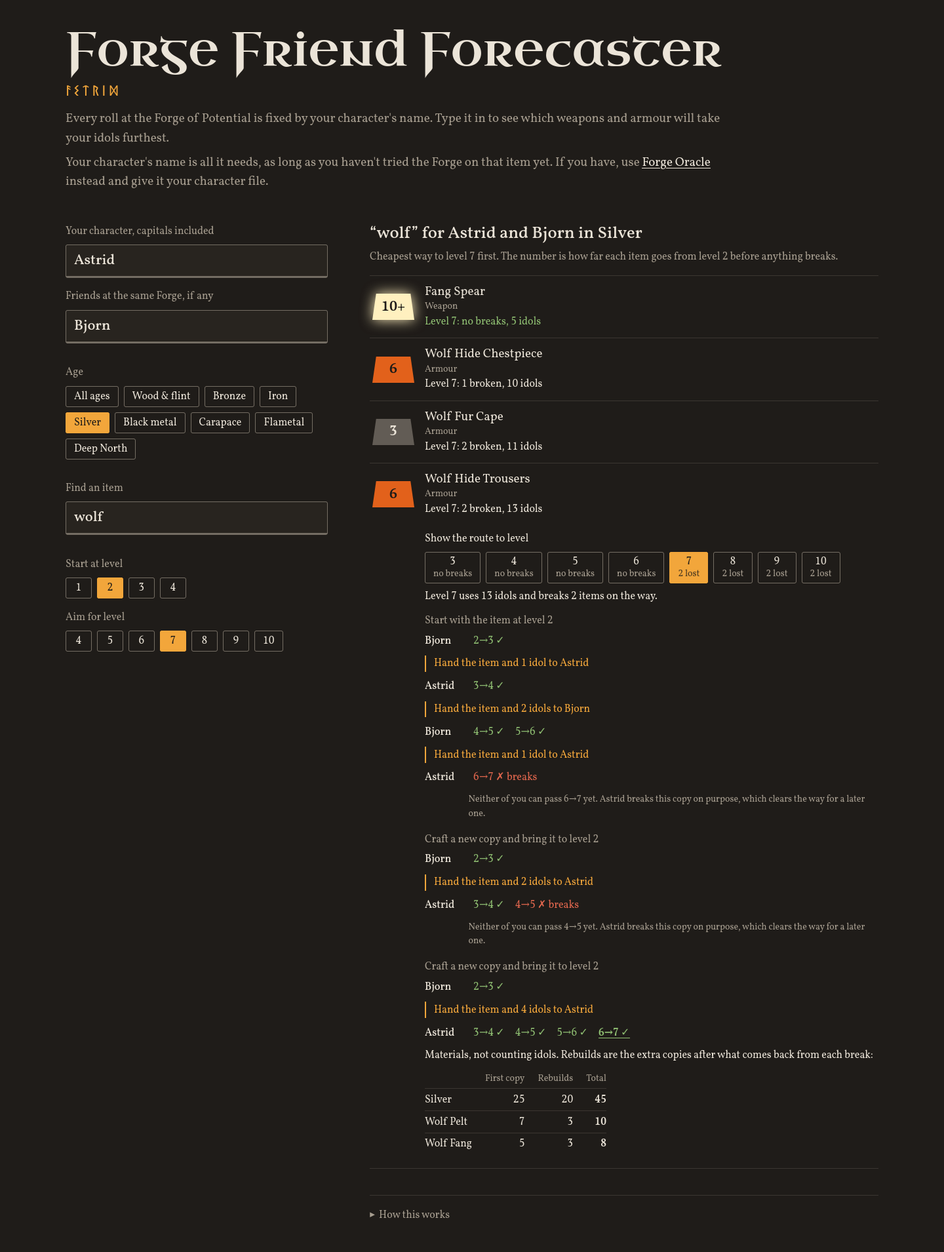
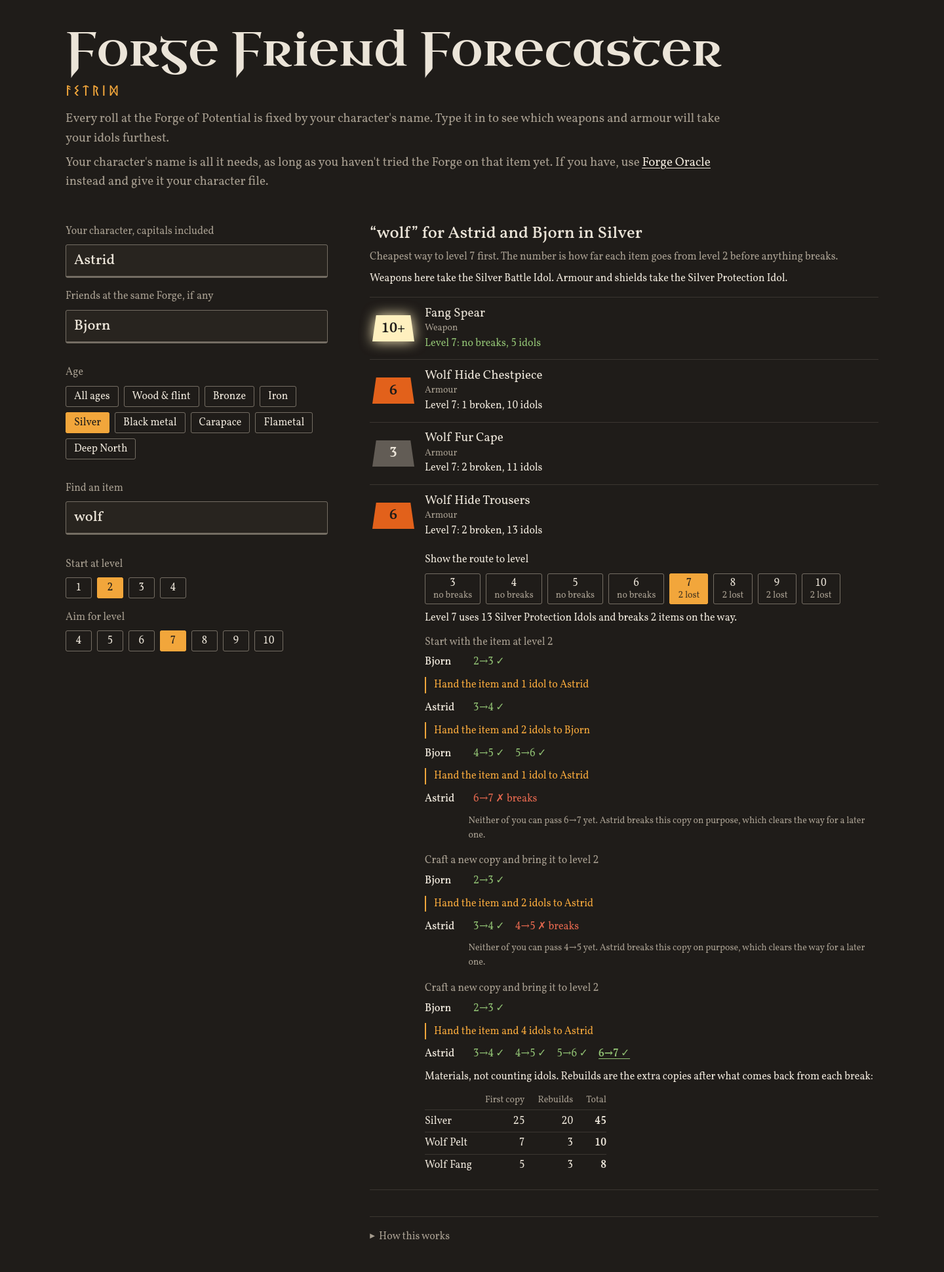
Name the idols each age takes, and restore the game's idol grouping
Ages group items by the idol their Forge recipe asks for, not by the age of
their materials, so the fifteen items moved in 65641b7 go back where the
game data puts them. Headdress of the Bear does take the Black Marble
Protection Idol.

When an age is picked, a line under the heading names its Battle and
Protection Idols, and calls out Nord Knucklechains, the one weapon that
takes a Protection Idol. Each route names the idol it uses, and How this
works explains the grouping.

diff --git a/index.html b/index.html
@@ -82,6 +82,7 @@ button:focus-visible,summary:focus-visible{outline:2px solid var(--amber);outlin
 
 .results h2{font:500 26px/1.2 var(--body);margin:0}
 .results>p{color:var(--slag);font-size:16px;margin:8px 0 16px}
+.results>p.idols{color:var(--ash);margin-top:-8px}
 
 /* One row per item. The ingot is the only coloured thing in the row */
 .item{border-top:1px solid var(--iron)}
@@ -199,6 +200,7 @@ details.how p{margin:12px 0;font-size:16px;max-width:60ch}
   <section class="results" id="out" hidden>
     <h2 id="heading"></h2>
     <p id="intro"></p>
+    <p class="idols" id="idols"></p>
     <p class="sr" id="status" role="status"></p>
     <div id="list"></div>
   </section>
@@ -207,6 +209,7 @@ details.how p{margin:12px 0;font-size:16px;max-width:60ch}
     <summary>How this works</summary>
     <p>Every Forge of Potential attempt is decided in advance. Each item and level step has its own roll, and the first roll comes from your character name. An attempt, whether it works or not, moves that step on to its next roll. Reloading doesn't change anything.</p>
     <p>A roll of 0.65 or less succeeds. A failure destroys the item and gives back 35% of its materials. These values come from the game data and are the same for every idol.</p>
+    <p>Each age has two idols: a Battle Idol for weapons and a Protection Idol for armour and shields. Items are grouped by the idol their Forge recipe asks for, which doesn't always match the age of their materials. The Nord Atgeir, for one, takes the Bronze Battle Idol.</p>
     <p>On a first run almost nothing passes level 7. The game's random numbers for neighbouring levels are related, so long runs of successes are very rare. Higher levels always cost some broken items.</p>
     <p>With friends, each character has their own rolls, and only the character pressing the button counts. Who crafted the item doesn't matter. The route names who should do each step. Playing together on a server hasn't been tested yet, so check the first prediction on a cheap upgrade.</p>
     <p>The lists assume this character hasn't used idols on these items yet, and that you bring each new copy of an item to the start level yourself. If an item breaks, craft a new one, bring it to that level again and follow the next run. Rolls belong to the item type, not the single item, so a new copy carries on where the old one stopped.</p>
@@ -226,11 +229,21 @@ details.how p{margin:12px 0;font-size:16px;max-width:60ch}
     return {roll:(r1&0x7FFFFF)/8388607,next:r2%99999999};
   }
   // Idol tier from the game's recipes. Each entry is [name, internal name, W(eapon)/S(hield)/A(rmour)]
-  var AGES=[[["Club","Club","W"],["Crude Bow","Bow","W"],["Flint Axe","AxeFlint","W"],["Flint Knife","KnifeFlint","W"],["Flint Spear","SpearFlint","W"],["Stagbreaker","SledgeStagbreaker","W"],["Stone Axe","AxeStone","W"],["Wood Shield","ShieldWood","S"],["Wood Tower Shield","ShieldWoodTower","S"],["Deer Hide Cape","CapeDeerHide","A"],["Leather Helmet","HelmetLeather","A"],["Leather Trousers","ArmorLeatherLegs","A"],["Leather Tunic","ArmorLeatherChest","A"],["Rag Trousers","ArmorRagsLegs","A"],["Rag Tunic","ArmorRagsChest","A"]],[["Bronze Atgeir","AtgeirBronze","W"],["Bronze Axe","AxeBronze","W"],["Bronze Mace","MaceBronze","W"],["Bronze Spear","SpearBronze","W"],["Bronze Sword","SwordBronze","W"],["Copper Knife","KnifeCopper","W"],["Finewood Bow","BowFineWood","W"],["Paws of the Bear","FistBjornClaw","W"],["Bone Tower Shield","ShieldBoneTower","S"],["Bronze Buckler","ShieldBronzeBuckler","S"],["Bronze Helmet","HelmetBronze","A"],["Bronze Plate Leggings","ArmorBronzeLegs","A"],["Bronze Plate Tunic","ArmorBronzeChest","A"],["Cape of Oden","CapeOdin","A"],["Headdress of the Bear","HelmetBerserkerHood","A"],["Hood of Oden","HelmetOdin","A"],["Loincloth of the Bear","ArmorBerserkerLegs","A"],["Patterns of the Bear","ArmorBerserkerChest","A"],["Troll Hide Cape","CapeTrollHide","A"],["Troll Leather Hood","HelmetTrollLeather","A"],["Troll Leather Trousers","ArmorTrollLeatherLegs","A"],["Troll Leather Tunic","ArmorTrollLeatherChest","A"]],[["Ancient Bark Spear","SpearElderbark","W"],["Battleaxe","Battleaxe","W"],["Early Axes","AxeEarly","W"],["Huntsman Bow","BowHuntsman","W"],["Iron Atgeir","AtgeirIron","W"],["Iron Axe","AxeIron","W"],["Iron Mace","MaceIron","W"],["Iron Sledge","SledgeIron","W"],["Iron Sword","SwordIron","W"],["Banded Shield","ShieldBanded","S"],["Iron Buckler","ShieldIronBuckler","S"],["Iron Shield","ShieldIronSquare","S"],["Iron Tower Shield","ShieldIronTower","S"],["Shield of Roots","ShieldRoots","S"],["Iron Greaves","ArmorIronLegs","A"],["Iron Helmet","HelmetIron","A"],["Iron Scale Mail","ArmorIronChest","A"],["Root Harnesk","ArmorRootChest","A"],["Root Leggings","ArmorRootLegs","A"],["Root Mask","HelmetRoot","A"]],[["Abyssal Razor","KnifeChitin","W"],["Crystal Battleaxe","BattleaxeCrystal","W"],["Draugr Fang","BowDraugrFang","W"],["Fang Spear","SpearWolfFang","W"],["Flesh Rippers","FistFenrirClaw","W"],["Frostner","MaceSilver","W"],["Silver Knife","KnifeSilver","W"],["Silver Sword","SwordSilver","W"],["Serpent Scale Shield","ShieldSerpentscale","S"],["Silver Shield","ShieldSilver","S"],["Drake Helmet","HelmetDrake","A"],["Fenris Coat","ArmorFenringChest","A"],["Fenris Hood","HelmetFenring","A"],["Fenris Leggings","ArmorFenringLegs","A"],["Wolf Fur Cape","CapeWolf","A"],["Wolf Hide Chestpiece","ArmorWolfChest","A"],["Wolf Hide Trousers","ArmorWolfLegs","A"]],[["Black Metal Atgeir","AtgeirBlackmetal","W"],["Black Metal Axe","AxeBlackMetal","W"],["Black Metal Battleaxe","BattleaxeBlackmetal","W"],["Black Metal Knife","KnifeBlackMetal","W"],["Black Metal Sword","SwordBlackmetal","W"],["Porcupine","MaceNeedle","W"],["Skoll and Hati","KnifeSkollAndHati","W"],["Vilebone Maulclaws","FistBjornUndeadClaw","W"],["Black Metal Shield","ShieldBlackmetal","S"],["Black Metal Tower Shield","ShieldBlackmetalTower","S"],["Linen Cape","CapeLinen","A"],["Lox Cape","CapeLox","A"],["Lox Fur Hood","HelmetLox","A"],["Lox Fur Jacket","ArmorLoxChest","A"],["Lox Fur Trousers","ArmorLoxLegs","A"],["Padded Cuirass","ArmorPaddedCuirass","A"],["Padded Greaves","ArmorPaddedGreaves","A"],["Padded Helmet","HelmetPadded","A"],["Vilebone Cage","ArmorBerserkerUndeadChest","A"],["Vilebone Drapes","ArmorBerserkerUndeadLegs","A"],["Vilebone Visage","HelmetBerserkerUndead","A"]],[["Arbalest","CrossbowArbalest","W"],["Carapace Spear","SpearCarapace","W"],["Dead Raiser","StaffSkeleton","W"],["Demolisher","SledgeDemolisher","W"],["Himminafl","AtgeirHimminAfl","W"],["Jotun Bane","AxeJotunBane","W"],["Krom","THSwordKrom","W"],["Mistwalker","SwordMistwalker","W"],["Skull Splittur","BattleaxeSkullSplittur","W"],["Spinesnap","BowSpineSnap","W"],["Staff of Embers","StaffFireball","W"],["Staff of Frost","StaffIceShards","W"],["Staff of Protection","StaffShield","W"],["Carapace Buckler","ShieldCarapaceBuckler","S"],["Carapace Shield","ShieldCarapace","S"],["Carapace Breastplate","ArmorCarapaceChest","A"],["Carapace Greaves","ArmorCarapaceLegs","A"],["Carapace Helmet","HelmetCarapace","A"],["Eitr-weave Hood","HelmetMage","A"],["Eitr-weave Robe","ArmorMageChest","A"],["Eitr-weave Trousers","ArmorMageLegs","A"],["Feather Cape","CapeFeather","A"]],[["Ash Fang","BowAshlands","W"],["Berserkir Axes","AxeBerzerkr","W"],["Bleeding Berserkir Axes","AxeBerzerkrBlood","W"],["Blood Fang","BowAshlandsBlood","W"],["Bloodgeon","MaceEldnerBlood","W"],["Brutal Slayer","THSwordSlayerBlood","W"],["Dundr","StaffLightning","W"],["Dyrnwyn","SwordDyrnwyn","W"],["Flametal Mace","MaceEldner","W"],["Klossen","MaceEldnerNature","W"],["Nidhögg","SwordNiedhogg","W"],["Nidhögg the Bleeding","SwordNiedhoggBlood","W"],["Nidhögg the Primal","SwordNiedhoggNature","W"],["Nidhögg the Thundering","SwordNiedhoggLightning","W"],["Primal Berserkir Axes","AxeBerzerkrNature","W"],["Primal Slayer","THSwordSlayerNature","W"],["Ripper","CrossbowRipper","W"],["Root Fang","BowAshlandsRoot","W"],["Root Ripper","CrossbowRipperNature","W"],["Scourging Slayer","THSwordSlayerLightning","W"],["Slayer","THSwordSlayer","W"],["Splitnir","SpearSplitner","W"],["Splitnir the Bleeding","SpearSplitner_Blood","W"],["Splitnir the Primal","SpearSplitner_Nature","W"],["Splitnir the Storming","SpearSplitner_Lightning","W"],["Staff of Fracturing","StaffClusterbomb","W"],["Staff of the Wild","StaffGreenRoots","W"],["Storm Fang","BowAshlandsStorm","W"],["Storm Ripper","CrossbowRipperLightning","W"],["Storm Star","MaceEldnerLightning","W"],["Thundering Berserkir Axes","AxeBerzerkrLightning","W"],["Trollstav","StaffRedTroll","W"],["Wound Ripper","CrossbowRipperBlood","W"],["Flametal Shield","ShieldFlametal","S"],["Flametal Tower Shield","ShieldFlametalTower","S"],["Ashen Cape","CapeAsh","A"],["Asksvin Cloak","CapeAsksvin","A"],["Breastplate of Ask","ArmorAshlandsMediumChest","A"],["Flametal Breastplate","ArmorFlametalChest","A"],["Flametal Greaves","ArmorFlametalLegs","A"],["Flametal Helmet","HelmetFlametal","A"],["Hood of Ask","HelmetAshlandsMediumHood","A"],["Hood of Embla","HelmetMage_Ashlands","A"],["Robes of Embla","ArmorMageChest_Ashlands","A"],["Trousers of Ask","ArmorAshlandsMediumlegs","A"],["Trousers of Embla","ArmorMageLegs_Ashlands","A"]],[["Echo Spike","StaffOrbofAhri","W"],["Frostfire Atgeir","AtgeirGold_FrostFire","W"],["Frostfire Axe","AxeGold_FrostFire","W"],["Frostfire Bow","BowGold_FrostFire","W"],["Frostfire Crossbow","CrossbowGold_FrostFire","W"],["Frostfire Dagger","KnifeGold_FrostFire","W"],["Frostfire Greataxe","BattleaxeGold_FrostFire","W"],["Frostfire Greatsword","THSwordGold_FrostFire","W"],["Frostfire Knucklechains","FistGold_FrostFire","W"],["Frostfire Mace","MaceGold_FrostFire","W"],["Frostfire Sledge","SledgeGold_FrostFire","W"],["Frostfire Spear","SpearGold_FrostFire","W"],["Frostfire Sword","SwordGold_FrostFire","W"],["Lightning Strike","StaffThunderBlood","W"],["Nord Atgeir","AtgeirGold","W"],["Nord Axe","AxeGold","W"],["Nord Bow","BowGold","W"],["Nord Crossbow","CrossbowGold","W"],["Nord Dagger","KnifeGold","W"],["Nord Greataxe","BattleaxeGold","W"],["Nord Greatsword","THSwordGold","W"],["Nord Knucklechains","FistGold","W"],["Nord Mace","MaceGold","W"],["Nord Sledge","SledgeGold","W"],["Nord Spear","SpearGold","W"],["Nord Sword","SwordGold","W"],["Northern Vengeance","StaffFrostOrbs","W"],["Spirit Caller","StaffSpiritCaller","W"],["Thunderblood Atgeir","AtgeirGold_BloodLightning","W"],["Thunderblood Axe","AxeGold_BloodLightning","W"],["Thunderblood Bow","BowGold_BloodLightning","W"],["Thunderblood Crossbow","CrossbowGold_BloodLightning","W"],["Thunderblood Dagger","KnifeGold_BloodLightning","W"],["Thunderblood Greataxe","BattleaxeGold_BloodLightning","W"],["Thunderblood Greatsword","THSwordGold_BloodLightning","W"],["Thunderblood Knucklechains","FistGold_BloodLightning","W"],["Thunderblood Mace","MaceGold_BloodLightning","W"],["Thunderblood Sledge","SledgeGold_BloodLightning","W"],["Thunderblood Spear","SpearGold_BloodLightning","W"],["Thunderblood Sword","SwordGold_BloodLightning","W"],["Voidcaller","KnifeVoid","W"],["Nord Buckler","ShieldGoldBuckler","S"],["Nord Greatshield","ShieldGoldTower","S"],["Nord Shield","ShieldGold","S"],["Breastplate of the Protector","ArmorDeepNorthHeavyChest","A"],["Cape of the Caller","CapeDeepNorthMage","A"],["Chestpiece of the Vanguard","ArmorDeepNorthMediumChest","A"],["Headdress of the Caller","HelmetDNMage","A"],["Hood of the Vanguard","HelmetDNMediumHood","A"],["Moose Hide Cape","CapeDeepNorth","A"],["Robes of the Caller","ArmorDeepNorthMageChest","A"],["Trousers of the Caller","ArmorDeepNorthMagelegs","A"],["Trousers of the Protector","ArmorDeepNorthHeavylegs","A"],["Trousers of the Vanguard","ArmorDeepNorthMediumlegs","A"]]];
+  var AGES=[[["Club","Club","W"],["Crude Bow","Bow","W"],["Flint Knife","KnifeFlint","W"],["Flint Spear","SpearFlint","W"],["Stagbreaker","SledgeStagbreaker","W"],["Stone Axe","AxeStone","W"],["Wood Shield","ShieldWood","S"],["Wood Tower Shield","ShieldWoodTower","S"],["Deer Hide Cape","CapeDeerHide","A"],["Leather Helmet","HelmetLeather","A"],["Leather Trousers","ArmorLeatherLegs","A"],["Leather Tunic","ArmorLeatherChest","A"],["Rag Trousers","ArmorRagsLegs","A"],["Rag Tunic","ArmorRagsChest","A"]],[["Bronze Atgeir","AtgeirBronze","W"],["Bronze Mace","MaceBronze","W"],["Bronze Spear","SpearBronze","W"],["Bronze Sword","SwordBronze","W"],["Copper Knife","KnifeCopper","W"],["Finewood Bow","BowFineWood","W"],["Flint Axe","AxeFlint","W"],["Nord Atgeir","AtgeirGold","W"],["Paws of the Bear","FistBjornClaw","W"],["Voidcaller","KnifeVoid","W"],["Bone Tower Shield","ShieldBoneTower","S"],["Bronze Buckler","ShieldBronzeBuckler","S"],["Bronze Helmet","HelmetBronze","A"],["Bronze Plate Leggings","ArmorBronzeLegs","A"],["Bronze Plate Tunic","ArmorBronzeChest","A"],["Cape of Oden","CapeOdin","A"],["Hood of Oden","HelmetOdin","A"],["Loincloth of the Bear","ArmorBerserkerLegs","A"],["Patterns of the Bear","ArmorBerserkerChest","A"],["Troll Hide Cape","CapeTrollHide","A"],["Troll Leather Hood","HelmetTrollLeather","A"],["Troll Leather Trousers","ArmorTrollLeatherLegs","A"],["Troll Leather Tunic","ArmorTrollLeatherChest","A"]],[["Ancient Bark Spear","SpearElderbark","W"],["Battleaxe","Battleaxe","W"],["Bronze Axe","AxeBronze","W"],["Draugr Fang","BowDraugrFang","W"],["Early Axes","AxeEarly","W"],["Huntsman Bow","BowHuntsman","W"],["Iron Atgeir","AtgeirIron","W"],["Iron Mace","MaceIron","W"],["Iron Sledge","SledgeIron","W"],["Iron Sword","SwordIron","W"],["Nord Knucklechains","FistGold","W"],["Banded Shield","ShieldBanded","S"],["Iron Buckler","ShieldIronBuckler","S"],["Iron Shield","ShieldIronSquare","S"],["Iron Tower Shield","ShieldIronTower","S"],["Shield of Roots","ShieldRoots","S"],["Iron Greaves","ArmorIronLegs","A"],["Iron Helmet","HelmetIron","A"],["Iron Scale Mail","ArmorIronChest","A"],["Root Harnesk","ArmorRootChest","A"],["Root Leggings","ArmorRootLegs","A"],["Root Mask","HelmetRoot","A"]],[["Abyssal Razor","KnifeChitin","W"],["Crystal Battleaxe","BattleaxeCrystal","W"],["Fang Spear","SpearWolfFang","W"],["Flesh Rippers","FistFenrirClaw","W"],["Frostner","MaceSilver","W"],["Iron Axe","AxeIron","W"],["Silver Knife","KnifeSilver","W"],["Silver Sword","SwordSilver","W"],["Serpent Scale Shield","ShieldSerpentscale","S"],["Silver Shield","ShieldSilver","S"],["Drake Helmet","HelmetDrake","A"],["Fenris Coat","ArmorFenringChest","A"],["Fenris Hood","HelmetFenring","A"],["Fenris Leggings","ArmorFenringLegs","A"],["Wolf Fur Cape","CapeWolf","A"],["Wolf Hide Chestpiece","ArmorWolfChest","A"],["Wolf Hide Trousers","ArmorWolfLegs","A"]],[["Black Metal Atgeir","AtgeirBlackmetal","W"],["Black Metal Axe","AxeBlackMetal","W"],["Black Metal Battleaxe","BattleaxeBlackmetal","W"],["Black Metal Knife","KnifeBlackMetal","W"],["Black Metal Sword","SwordBlackmetal","W"],["Frostfire Axe","AxeGold_FrostFire","W"],["Jotun Bane","AxeJotunBane","W"],["Nord Axe","AxeGold","W"],["Porcupine","MaceNeedle","W"],["Skoll and Hati","KnifeSkollAndHati","W"],["Vilebone Maulclaws","FistBjornUndeadClaw","W"],["Black Metal Shield","ShieldBlackmetal","S"],["Black Metal Tower Shield","ShieldBlackmetalTower","S"],["Linen Cape","CapeLinen","A"],["Lox Cape","CapeLox","A"],["Lox Fur Hood","HelmetLox","A"],["Lox Fur Jacket","ArmorLoxChest","A"],["Lox Fur Trousers","ArmorLoxLegs","A"],["Padded Cuirass","ArmorPaddedCuirass","A"],["Padded Greaves","ArmorPaddedGreaves","A"],["Padded Helmet","HelmetPadded","A"],["Vilebone Cage","ArmorBerserkerUndeadChest","A"],["Vilebone Drapes","ArmorBerserkerUndeadLegs","A"],["Vilebone Visage","HelmetBerserkerUndead","A"]],[["Arbalest","CrossbowArbalest","W"],["Carapace Spear","SpearCarapace","W"],["Dead Raiser","StaffSkeleton","W"],["Demolisher","SledgeDemolisher","W"],["Himminafl","AtgeirHimminAfl","W"],["Krom","THSwordKrom","W"],["Mistwalker","SwordMistwalker","W"],["Skull Splittur","BattleaxeSkullSplittur","W"],["Spinesnap","BowSpineSnap","W"],["Splitnir","SpearSplitner","W"],["Splitnir the Bleeding","SpearSplitner_Blood","W"],["Splitnir the Primal","SpearSplitner_Nature","W"],["Splitnir the Storming","SpearSplitner_Lightning","W"],["Staff of Embers","StaffFireball","W"],["Staff of Frost","StaffIceShards","W"],["Staff of Protection","StaffShield","W"],["Carapace Buckler","ShieldCarapaceBuckler","S"],["Carapace Shield","ShieldCarapace","S"],["Carapace Breastplate","ArmorCarapaceChest","A"],["Carapace Greaves","ArmorCarapaceLegs","A"],["Carapace Helmet","HelmetCarapace","A"],["Eitr-weave Hood","HelmetMage","A"],["Eitr-weave Robe","ArmorMageChest","A"],["Eitr-weave Trousers","ArmorMageLegs","A"],["Feather Cape","CapeFeather","A"],["Headdress of the Bear","HelmetBerserkerHood","A"]],[["Ash Fang","BowAshlands","W"],["Berserkir Axes","AxeBerzerkr","W"],["Bleeding Berserkir Axes","AxeBerzerkrBlood","W"],["Blood Fang","BowAshlandsBlood","W"],["Bloodgeon","MaceEldnerBlood","W"],["Brutal Slayer","THSwordSlayerBlood","W"],["Dundr","StaffLightning","W"],["Dyrnwyn","SwordDyrnwyn","W"],["Flametal Mace","MaceEldner","W"],["Klossen","MaceEldnerNature","W"],["Nidhögg","SwordNiedhogg","W"],["Nidhögg the Bleeding","SwordNiedhoggBlood","W"],["Nidhögg the Primal","SwordNiedhoggNature","W"],["Nidhögg the Thundering","SwordNiedhoggLightning","W"],["Primal Berserkir Axes","AxeBerzerkrNature","W"],["Primal Slayer","THSwordSlayerNature","W"],["Ripper","CrossbowRipper","W"],["Root Fang","BowAshlandsRoot","W"],["Root Ripper","CrossbowRipperNature","W"],["Scourging Slayer","THSwordSlayerLightning","W"],["Slayer","THSwordSlayer","W"],["Staff of Fracturing","StaffClusterbomb","W"],["Staff of the Wild","StaffGreenRoots","W"],["Storm Fang","BowAshlandsStorm","W"],["Storm Ripper","CrossbowRipperLightning","W"],["Storm Star","MaceEldnerLightning","W"],["Thundering Berserkir Axes","AxeBerzerkrLightning","W"],["Trollstav","StaffRedTroll","W"],["Wound Ripper","CrossbowRipperBlood","W"],["Flametal Shield","ShieldFlametal","S"],["Flametal Tower Shield","ShieldFlametalTower","S"],["Ashen Cape","CapeAsh","A"],["Asksvin Cloak","CapeAsksvin","A"],["Breastplate of Ask","ArmorAshlandsMediumChest","A"],["Flametal Breastplate","ArmorFlametalChest","A"],["Flametal Greaves","ArmorFlametalLegs","A"],["Flametal Helmet","HelmetFlametal","A"],["Hood of Ask","HelmetAshlandsMediumHood","A"],["Hood of Embla","HelmetMage_Ashlands","A"],["Robes of Embla","ArmorMageChest_Ashlands","A"],["Trousers of Ask","ArmorAshlandsMediumlegs","A"],["Trousers of Embla","ArmorMageLegs_Ashlands","A"]],[["Echo Spike","StaffOrbofAhri","W"],["Frostfire Atgeir","AtgeirGold_FrostFire","W"],["Frostfire Bow","BowGold_FrostFire","W"],["Frostfire Crossbow","CrossbowGold_FrostFire","W"],["Frostfire Dagger","KnifeGold_FrostFire","W"],["Frostfire Greataxe","BattleaxeGold_FrostFire","W"],["Frostfire Greatsword","THSwordGold_FrostFire","W"],["Frostfire Knucklechains","FistGold_FrostFire","W"],["Frostfire Mace","MaceGold_FrostFire","W"],["Frostfire Sledge","SledgeGold_FrostFire","W"],["Frostfire Spear","SpearGold_FrostFire","W"],["Frostfire Sword","SwordGold_FrostFire","W"],["Lightning Strike","StaffThunderBlood","W"],["Nord Bow","BowGold","W"],["Nord Crossbow","CrossbowGold","W"],["Nord Dagger","KnifeGold","W"],["Nord Greataxe","BattleaxeGold","W"],["Nord Greatsword","THSwordGold","W"],["Nord Mace","MaceGold","W"],["Nord Sledge","SledgeGold","W"],["Nord Spear","SpearGold","W"],["Nord Sword","SwordGold","W"],["Northern Vengeance","StaffFrostOrbs","W"],["Spirit Caller","StaffSpiritCaller","W"],["Thunderblood Atgeir","AtgeirGold_BloodLightning","W"],["Thunderblood Axe","AxeGold_BloodLightning","W"],["Thunderblood Bow","BowGold_BloodLightning","W"],["Thunderblood Crossbow","CrossbowGold_BloodLightning","W"],["Thunderblood Dagger","KnifeGold_BloodLightning","W"],["Thunderblood Greataxe","BattleaxeGold_BloodLightning","W"],["Thunderblood Greatsword","THSwordGold_BloodLightning","W"],["Thunderblood Knucklechains","FistGold_BloodLightning","W"],["Thunderblood Mace","MaceGold_BloodLightning","W"],["Thunderblood Sledge","SledgeGold_BloodLightning","W"],["Thunderblood Spear","SpearGold_BloodLightning","W"],["Thunderblood Sword","SwordGold_BloodLightning","W"],["Nord Buckler","ShieldGoldBuckler","S"],["Nord Greatshield","ShieldGoldTower","S"],["Nord Shield","ShieldGold","S"],["Breastplate of the Protector","ArmorDeepNorthHeavyChest","A"],["Cape of the Caller","CapeDeepNorthMage","A"],["Chestpiece of the Vanguard","ArmorDeepNorthMediumChest","A"],["Headdress of the Caller","HelmetDNMage","A"],["Hood of the Vanguard","HelmetDNMediumHood","A"],["Moose Hide Cape","CapeDeepNorth","A"],["Robes of the Caller","ArmorDeepNorthMageChest","A"],["Trousers of the Caller","ArmorDeepNorthMagelegs","A"],["Trousers of the Protector","ArmorDeepNorthHeavylegs","A"],["Trousers of the Vanguard","ArmorDeepNorthMediumlegs","A"]]];
   // Crafting materials per item from the game's recipes, idols left out: [name, amount to craft, amount per level, returned on a break (1/0)]
   var MATS={"SledgeWood":[["Wood",5,1,1],["Finewood",3,10,1],["Corewood",2,2,1]],"HelmetCarapace":[["Carapace",16,8,1],["Scale Hide",3,1,1],["Mandible",2,0,1],["Refined Eitr",4,2,1]],"MaceBronze":[["Wood",4,0,1],["Bronze",8,4,1],["Leather Scraps",3,0,1]],"SwordWood":[["Wood",5,1,1],["Finewood",3,10,1],["Corewood",2,2,1]],"KnifeGold":[["Bloodgold",20,10,1],["Mould: Nord Dagger",1,0,1],["Timberwood",10,5,1]],"ShieldGold":[["Bloodgold",15,8,1],["Mould: Nord Shield",1,0,1],["Timberwood",10,5,1]],"ShieldIronTower":[["Finewood",15,10,1],["Iron",10,5,1]],"CrossbowArbalest":[["Wood",10,5,1],["Iron",8,4,1],["Root",4,1,1]],"SwordGold":[["Bloodgold",20,10,1],["Mould: Nord Sword",1,0,1],["Timberwood",10,5,1]],"FistGold_FrostFire":[["Nord Knucklechains",1,0,0],["Bloodgold",20,10,1],["Frostfire Essence",1,1,0]],"CapeWolf":[["Wolf Pelt",6,4,1],["Silver",4,2,1],["Wolf Trophy",1,0,1]],"KnifeVoid":[["Ectoplasm",1,0,1],["Ectoplasm",8,10,1],["Bloodgold",2,10,1]],"BattleaxeSkullSplittur":[["Iron",30,15,1],["Yggdrasil Wood",15,5,1],["Refined Eitr",10,0,1]],"CapeLox":[["Lox Pelt",6,2,1],["Silver",2,0,1]],"ArmorLeatherChest":[["Deer Hide",6,6,1],["Bone Fragments",0,5,1]],"BattleaxeBlackmetal":[["Finewood",10,0,1],["Black Metal",30,15,1],["Linen Thread",5,5,1]],"SwordGold_FrostFire":[["Nord Sword",1,0,0],["Bloodgold",20,10,1],["Frostfire Essence",1,1,0]],"SpearSplitner_Blood":[["Splitnir",1,0,0],["Flametal",6,6,1],["Bloodstone",1,1,0]],"THSwordWood":[["Wood",5,1,1],["Finewood",3,10,1],["Corewood",2,2,1]],"ShieldWoodTower":[["Wood",10,5,1],["Leather Scraps",6,3,1]],"SpearSplitner_Nature":[["Splitnir",1,0,0],["Flametal",6,6,1],["Jade",1,1,0]],"BowDraugrFang":[["Ancient Bark",10,5,1],["Silver",20,10,1],["Deer Hide",2,2,1],["Guck",10,2,1]],"AxeBerzerkrNature":[["Berserkir Axes",1,0,0],["Flametal",5,5,1],["Jade",1,1,0]],"Club":[["Wood",6,0,1],["Bone Fragments",0,5,1]],"THSwordKrom":[["Iron",30,15,1],["Bronze",20,10,1],["Scale Hide",5,5,1]],"CrossbowRipperBlood":[["Ripper",1,0,0],["Flametal",8,8,1],["Bloodstone",1,1,0]],"MaceIron":[["Wood",4,0,1],["Iron",20,10,1],["Leather Scraps",3,0,1]],"ArmorDeepNorthHeavylegs":[["Bloodgold",20,15,1],["Mould: Trousers of the Protector",1,0,1],["Moose Hide",8,3,1],["Leather Straps",4,3,1]],"THSwordSlayerBlood":[["Slayer",1,0,0],["Flametal",15,15,1],["Bloodstone",1,1,0]],"HelmetRoot":[["Root",10,2,1],["Ancient Bark",10,5,1],["Leather Scraps",4,0,1]],"SwordBronze":[["Wood",2,1,1],["Bronze",8,4,1],["Leather Scraps",2,1,1]],"BattleaxeCrystal":[["Ancient Bark",40,5,1],["Silver",30,15,1],["Crystal",10,0,1]],"KnifeSkollAndHati":[["Finewood",4,0,1],["Iron",10,4,1],["Black Metal",10,4,1]],"BowAshlandsRoot":[["Ash Fang",1,0,0],["Flametal",5,5,1],["Jade",1,1,0]],"StaffSkeleton":[["Bone Fragments",10,5,1],["Refined Eitr",16,8,1],["Skeleton Trophy",4,2,1]],"ShieldBronzeBuckler":[["Bronze",10,5,1],["Wood",4,1,1]],"ArmorRagsLegs":[["Leather Scraps",5,5,1]],"ArmorAshlandsMediumlegs":[["Linen Thread",15,10,1],["Lox Pelt",4,2,1],["Asksvin Hide",10,5,1]],"ArmorDeepNorthMageChest":[["Bloodgold",6,3,1],["Mould: Robes of the Caller",1,0,1],["Moose Hide",6,3,1],["Nornathread",5,3,1]],"MaceGold_FrostFire":[["Nord Mace",1,0,0],["Bloodgold",20,10,1],["Frostfire Essence",1,1,0]],"ArmorTrollLeatherChest":[["Troll Hide",5,2,1]],"StaffLightning":[["Ashwood",10,5,1],["Flametal",4,2,1],["Celestial Feather",3,3,1],["Bloodstone",1,1,0]],"SpearGold_BloodLightning":[["Nord Spear",1,0,0],["Bloodgold",20,10,1],["Thunderblood Essence",1,1,0]],"StaffThunderBlood":[["Bloodgold",10,5,1],["Nornathread",5,2,1],["Thunderblood Essence",1,1,0]],"StaffSpiritCaller":[["Frozen Branch",8,4,1],["Nornathread",5,2,1],["Moose Trophy",1,0,1]],"CrossbowRipperLightning":[["Ripper",1,0,0],["Flametal",8,8,1],["Iolite",1,1,0]],"ArmorLeatherLegs":[["Deer Hide",6,6,1],["Bone Fragments",0,5,1]],"ArmorLoxChest":[["Lox Pelt",5,6,1],["Bone Fragments",8,4,1],["Root",2,1,1]],"PickaxeIron":[["Corewood",3,1,1],["Iron",20,10,1]],"CapeDeerHide":[["Deer Hide",4,4,1],["Bone Fragments",5,5,1]],"MaceWood":[["Wood",5,1,1],["Finewood",3,10,1],["Corewood",2,2,1]],"ArmorBronzeLegs":[["Bronze",5,3,1],["Deer Hide",2,0,1]],"StaffIceShards":[["Yggdrasil Wood",20,10,1],["Freeze Gland",4,2,1],["Refined Eitr",16,8,1]],"Bow":[["Wood",10,5,1],["Leather Scraps",8,4,1],["Deer Hide",0,1,1]],"FistGold_BloodLightning":[["Nord Knucklechains",1,0,0],["Bloodgold",20,10,1],["Thunderblood Essence",1,1,0]],"SpearGold_FrostFire":[["Nord Spear",1,0,0],["Bloodgold",20,10,1],["Frostfire Essence",1,1,0]],"ArmorTrollLeatherLegs":[["Troll Hide",5,2,1]],"HelmetMage_Ashlands":[["Linen Thread",16,8,1],["Refined Eitr",15,5,1],["Asksvin Hide",2,0,1]],"ArmorCarapaceLegs":[["Carapace",20,10,1],["Scale Hide",3,1,1],["Iron",5,0,1],["Refined Eitr",4,2,1]],"ShieldFlametal":[["Ashwood",10,10,1],["Flametal",8,4,1],["Asksvin Hide",2,2,1]],"ArmorMageLegs":[["Linen Thread",20,10,1],["Refined Eitr",20,5,1],["Scale Hide",10,0,1]],"SpearBronze":[["Wood",5,3,1],["Bronze",6,4,1],["Deer Hide",2,1,1]],"AtgeirGold":[["Bloodgold",20,10,1],["Mould: Nord Atgeir",1,0,1],["Timberwood",10,5,1]],"MaceEldnerLightning":[["Flametal Mace",1,0,0],["Flametal",8,8,1],["Iolite",1,1,0]],"AxeWood":[["Wood",5,1,1],["Finewood",3,10,1],["Corewood",2,2,1]],"StaffGreenRoots":[["Ashwood",15,5,1],["Fiddlehead",10,2,1],["Celestial Feather",3,3,1],["Jade",1,1,1]],"BowAshlandsStorm":[["Ash Fang",1,0,0],["Flametal",5,5,1],["Iolite",1,1,0]],"HelmetDNMediumHood":[["Seal Pelt",5,3,1],["Mould: Hood of the Vanguard",1,0,1],["Moose Hide",5,3,1],["Moose Sinew",1,1,1]],"AtgeirWood":[["Wood",5,1,1],["Finewood",3,10,1],["Corewood",2,2,1]],"ArmorBerserkerLegs":[["Bear Hide",5,2,1],["Blueberries",4,1,1]],"SledgeGold_BloodLightning":[["Nord Sledge",1,0,0],["Bloodgold",20,10,1],["Thunderblood Essence",1,1,0]],"AxeFlint":[["Wood",4,0,1],["Flint",6,3,1],["Leather Scraps",0,2,1]],"CrossbowGold_FrostFire":[["Nord Crossbow",1,0,0],["Bloodgold",20,10,1],["Frostfire Essence",1,1,0]],"SwordGold_BloodLightning":[["Nord Sword",1,0,0],["Bloodgold",20,10,1],["Thunderblood Essence",1,1,0]],"HelmetTrollLeather":[["Troll Hide",5,2,1],["Bone Fragments",3,1,1]],"SpearWood":[["Wood",5,1,1],["Finewood",3,10,1],["Corewood",2,2,1]],"AxeEarly":[["Wood",4,2,1],["Leather Scraps",0,2,1],["Curious Axe Head",1,0,1],["Mysterious Axe Head",1,0,1]],"AxeStone":[["Wood",5,0,1],["Stone",4,2,1]],"SpearSplitner_Lightning":[["Splitnir",1,0,0],["Flametal",6,6,1],["Iolite",1,1,0]],"ShieldGoldBuckler":[["Bloodgold",10,5,1],["Mould: Nord Buckler",1,0,1],["Timberwood",10,5,1]],"AtgeirBronze":[["Wood",10,0,1],["Bronze",8,4,1],["Leather Scraps",2,0,1]],"HelmetMage":[["Linen Thread",16,8,1],["Refined Eitr",15,5,1],["Iron",2,0,1]],"ShieldGoldTower":[["Bloodgold",20,10,1],["Mould: Nord Greatshield",1,0,1],["Timberwood",20,10,1]],"AtgeirBlackmetal":[["Finewood",10,0,1],["Black Metal",30,15,1],["Linen Thread",5,5,1]],"SwordSilver":[["Wood",2,1,1],["Silver",40,20,1],["Leather Scraps",3,1,1],["Iron",5,3,1]],"KnifeCopper":[["Wood",2,0,1],["Copper",8,4,1],["Greydwarf Eye",0,8,1]],"ShieldWood":[["Wood",10,5,1],["Resin",4,2,1],["Leather Scraps",4,2,1]],"BattleaxeGold":[["Bloodgold",20,10,1],["Mould: Nord Greataxe",1,0,1],["Timberwood",10,5,1]],"MaceNeedle":[["Finewood",5,0,1],["Iron",20,2,1],["Needle",5,2,1],["Linen Thread",10,0,1]],"CrossbowGold_BloodLightning":[["Nord Crossbow",1,0,0],["Bloodgold",20,10,1],["Thunderblood Essence",1,1,0]],"HelmetBerserkerHood":[["Bear Hide",5,2,1],["Bear Trophy",1,0,1]],"ShieldCarapaceBuckler":[["Carapace",16,8,1],["Scale Hide",3,3,1],["Refined Eitr",10,3,1]],"AxeBerzerkrLightning":[["Berserkir Axes",1,0,0],["Flametal",5,5,1],["Iolite",1,1,0]],"HelmetLeather":[["Deer Hide",6,6,1],["Bone Fragments",0,5,1]],"SledgeGold_FrostFire":[["Nord Sledge",1,0,0],["Bloodgold",20,10,1],["Frostfire Essence",1,1,0]],"ShieldBlackmetalTower":[["Finewood",15,10,1],["Black Metal",10,4,1],["Chain",7,2,1]],"StaffFrostOrbs":[["Ice",10,5,1],["Nornathread",5,2,1],["Hexen Trophy",1,0,1]],"HelmetOdin":[["Leather Scraps",10,5,1],["Coal",4,2,1]],"ArmorDeepNorthHeavyChest":[["Bloodgold",20,15,1],["Mould: Breastplate of the Protector",1,0,1],["Moose Hide",8,3,1],["Leather Straps",4,3,1]],"StaffClusterbomb":[["Charred Bone",15,5,1],["Ashwood",5,3,1],["Proustite Powder",8,1,1]],"ArmorWolfLegs":[["Silver",20,5,1],["Wolf Pelt",5,2,1],["Wolf Fang",4,1,1]],"ShieldCarapace":[["Carapace",20,10,1],["Scale Hide",3,3,1],["Refined Eitr",10,3,1]],"ArmorAshlandsMediumChest":[["Linen Thread",15,10,1],["Lox Pelt",4,2,1],["Asksvin Hide",10,5,1]],"AxeIron":[["Wood",4,0,1],["Iron",20,10,1],["Leather Scraps",2,1,1]],"ArmorBronzeChest":[["Bronze",5,3,1],["Deer Hide",2,0,1]],"PickaxeBlackMetal":[["Yggdrasil Wood",3,1,1],["Black Metal",25,15,1]],"ArmorRootLegs":[["Root",10,2,1],["Ancient Bark",10,5,1],["Deer Hide",2,0,1]],"ArmorBerserkerChest":[["Bear Hide",5,2,1],["Bear Paw",2,0,1],["Blueberries",4,1,1]],"AxeBerzerkrBlood":[["Berserkir Axes",1,0,0],["Flametal",5,5,1],["Bloodstone",1,1,0]],"ArmorCarapaceChest":[["Carapace",20,10,1],["Scale Hide",3,1,1],["Iron",5,0,1],["Refined Eitr",4,2,1]],"KnifeWood":[["Wood",5,1,1],["Finewood",3,10,1],["Corewood",2,2,1]],"ArmorDeepNorthMediumlegs":[["Bloodgold",12,6,1],["Mould: Trousers of the Vanguard",1,0,1],["Elaking Hair Bundle",8,4,1],["Seal Pelt",4,2,1]],"CapeAsksvin":[["Asksvin Hide",6,2,1],["Morgen Sinew",2,0,1]],"ArmorBerserkerUndeadLegs":[["Bear Hide",10,5,1],["Vile Ribcage",1,1,1],["Linen Thread",4,1,1]],"CapeDeepNorthMage":[["Seal Pelt",6,3,1],["Nornathread",2,1,1],["Bloodgold",5,2,1],["Refined Eitr",15,5,1]],"ArmorBerserkerUndeadChest":[["Bear Hide",4,2,1],["Vile Ribcage",3,1,1],["Linen Thread",4,1,1]],"ArmorMageChest_Ashlands":[["Linen Thread",20,10,1],["Refined Eitr",20,5,1],["Asksvin Hide",10,0,1],["Flametal",5,2,1]],"ArmorMageChest":[["Linen Thread",20,10,1],["Refined Eitr",20,5,1],["Feathers",10,0,1],["Scale Hide",5,0,1]],"SwordNiedhoggLightning":[["Nidhögg",1,0,0],["Flametal",6,6,1],["Iolite",1,1,0]],"ArmorPaddedCuirass":[["Iron",10,3,1],["Linen Thread",20,10,1]],"SpearFlint":[["Wood",5,3,1],["Flint",10,5,1],["Leather Scraps",2,1,1]],"THSwordGold_BloodLightning":[["Nord Greatsword",1,0,0],["Bloodgold",20,10,1],["Thunderblood Essence",1,1,0]],"CrossbowRipperNature":[["Ripper",1,0,0],["Flametal",8,8,1],["Jade",1,1,0]],"AtgeirIron":[["Wood",10,0,1],["Iron",30,15,1],["Leather Scraps",2,1,1]],"ShieldBanded":[["Finewood",10,10,1],["Iron",8,4,1]],"THSwordSlayer":[["Flametal",30,15,1],["Asksvin Hide",5,5,1],["Morgen Sinew",3,3,1]],"ShieldSerpentscale":[["Finewood",10,10,1],["Iron",4,2,1],["Serpent Scale",8,4,1]],"BowSpineSnap":[["Finewood",10,5,1],["Bone Fragments",40,20,1],["Refined Eitr",10,0,1]],"SpearGold":[["Bloodgold",20,10,1],["Mould: Nord Spear",1,0,1],["Timberwood",10,5,1]],"BattleaxeGold_BloodLightning":[["Nord Greataxe",1,0,0],["Bloodgold",20,10,1],["Thunderblood Essence",1,1,0]],"CapeFeather":[["Feathers",10,2,1],["Scale Hide",5,5,1],["Refined Eitr",20,3,1]],"THSwordSlayerLightning":[["Slayer",1,0,0],["Flametal",15,15,1],["Iolite",1,1,0]],"HelmetBronze":[["Bronze",5,3,1],["Deer Hide",2,0,1]],"HelmetPadded":[["Iron",10,5,1],["Linen Thread",15,10,1]],"CrossbowRipper":[["Ashwood",10,5,1],["Flametal",8,4,1],["Morgen Sinew",2,1,1],["Bonemaw Tooth",4,4,1]],"KnifeGold_BloodLightning":[["Nord Dagger",1,0,0],["Bloodgold",20,10,1],["Thunderblood Essence",1,1,0]],"SpearWolfFang":[["Ancient Bark",10,5,1],["Wolf Fang",4,2,1],["Leather Scraps",2,1,1],["Silver",2,1,1]],"SpearElderbark":[["Troll Hide",4,1,1],["Iron",10,5,1],["Ancient Bark",10,5,1]],"AxeBlackMetal":[["Finewood",6,0,1],["Black Metal",20,10,1],["Linen Thread",5,5,1]],"ShieldFlametalTower":[["Ashwood",15,10,1],["Flametal",10,4,1],["Asksvin Hide",5,2,1]],"ArmorFlametalChest":[["Flametal",20,10,1],["Asksvin Hide",3,1,1],["Charred Bone",5,0,1],["Morgen Heart",1,0,1]],"FistBjornClaw":[["Bear Hide",2,2,1],["Bear Paw",2,0,1],["Leather Scraps",4,2,1]],"AxeBerzerkr":[["Charred Bone",15,0,1],["Flametal",24,15,1],["Asksvin Hide",3,1,1]],"KnifeGold_FrostFire":[["Nord Dagger",1,0,0],["Bloodgold",20,10,1],["Frostfire Essence",1,1,0]],"HelmetIron":[["Iron",20,5,1],["Deer Hide",2,0,1]],"HelmetLox":[["Lox Pelt",4,2,1],["Bone Fragments",4,2,1],["Writhan Roots",2,1,1]],"ShieldIronBuckler":[["Iron",10,5,1],["Ancient Bark",4,1,1]],"ArmorDeepNorthMagelegs":[["Bloodgold",6,3,1],["Mould: Trousers of the Caller",1,0,1],["Moose Hide",6,3,1],["Nornathread",5,3,1]],"KnifeFlint":[["Wood",2,0,1],["Flint",4,2,1],["Leather Scraps",2,0,1]],"HelmetDrake":[["Silver",20,5,1],["Wolf Pelt",2,0,1],["Drake Trophy",2,0,1]],"ArmorDeepNorthMediumChest":[["Bloodgold",12,6,1],["Mould: Chestpiece of the Vanguard",1,0,1],["Elaking Hair Bundle",8,4,1],["Leather Straps",4,2,1]],"ArmorFenringChest":[["Fenris Hair",20,5,1],["Wolf Pelt",5,3,1],["Leather Scraps",10,4,1]],"ShieldRoots":[["Finewood",10,5,1],["Writhan Roots",1,2,1]],"MaceEldnerBlood":[["Flametal Mace",1,0,0],["Flametal",8,8,1],["Bloodstone",1,1,0]],"CapeDeepNorth":[["Moose Hide",6,3,1],["Moose Sinew",2,1,1],["Bloodgold",5,2,1]],"SledgeDemolisher":[["Yggdrasil Wood",10,2,1],["Iron",20,15,1],["Refined Eitr",10,2,1]],"SpearSplitner":[["Ashwood",10,5,1],["Flametal",6,6,1],["Asksvin Hide",2,1,1],["Bonemaw Tooth",3,3,1]],"AtgeirHimminAfl":[["Yggdrasil Wood",10,0,1],["Refined Eitr",15,15,1],["Silver",5,5,1],["Mandible",2,2,1]],"BattleaxeWood":[["Wood",5,1,1],["Finewood",3,10,1],["Corewood",2,2,1]],"THSwordSlayerNature":[["Slayer",1,0,0],["Flametal",15,15,1],["Jade",1,1,0]],"ShieldBlackmetal":[["Finewood",10,10,1],["Black Metal",8,4,1],["Chain",5,2,1]],"MaceGold_BloodLightning":[["Nord Mace",1,0,0],["Bloodgold",20,10,1],["Thunderblood Essence",1,1,0]],"BowHuntsman":[["Finewood",10,5,1],["Iron",20,10,1],["Feathers",10,5,1],["Deer Hide",2,2,1]],"CapeTrollHide":[["Troll Hide",10,5,1],["Bone Fragments",10,5,1]],"SledgeGold":[["Bloodgold",20,10,1],["Mould: Nord Sledge",1,0,1],["Timberwood",10,5,1]],"HelmetBerserkerUndead":[["Bear Hide",5,2,1],["Vile Trophy",1,0,1]],"THSwordGold":[["Bloodgold",20,10,1],["Mould: Nord Greatsword",1,0,1],["Frozen Branch",2,1,1]],"FistGold":[["Bloodgold",20,10,1],["Mould: Nord Knucklechains",1,0,1],["Timberwood",10,5,1]],"FistFenrirClaw":[["Fenris Hair",10,1,1],["Fenris Claw",6,1,1],["Silver",10,1,1]],"ArmorRagsChest":[["Leather Scraps",5,5,1]],"ArmorIronChest":[["Iron",20,5,1],["Deer Hide",2,0,1]],"CapeOdin":[["Leather Scraps",10,5,1],["Coal",4,2,1]],"ArmorRootChest":[["Root",10,2,1],["Ancient Bark",10,5,1],["Deer Hide",2,0,1]],"AxeGold_BloodLightning":[["Nord Axe",1,0,0],["Bloodgold",20,10,1],["Thunderblood Essence",1,1,0]],"KnifeBlackMetal":[["Finewood",4,0,1],["Black Metal",10,4,1],["Linen Thread",5,5,1]],"AxeGold":[["Bloodgold",20,10,1],["Mould: Nord Axe",1,0,1],["Timberwood",10,5,1]],"ArmorIronLegs":[["Iron",20,5,1],["Deer Hide",2,0,1]],"HelmetDNMage":[["Moose Sinew",2,1,1],["Mould: Headdress of the Caller",1,0,1],["Moose Trophy",1,1,1],["Nornathread",3,2,1]],"ShieldIronSquare":[["Finewood",10,10,1],["Iron",6,3,1]],"KnifeSilver":[["Wood",2,1,1],["Silver",10,5,1],["Leather Scraps",3,1,1],["Iron",2,1,1]],"BowFineWood":[["Finewood",10,5,1],["Corewood",10,5,1],["Deer Hide",2,2,1]],"ShieldSilver":[["Finewood",10,10,1],["Silver",8,4,1]],"THSwordGold_FrostFire":[["Nord Greatsword",1,0,0],["Bloodgold",20,10,1],["Frostfire Essence",1,1,0]],"BowGold_BloodLightning":[["Nord Bow",1,0,0],["Bloodgold",20,10,1],["Thunderblood Essence",1,1,0]],"KnifeChitin":[["Finewood",4,0,1],["Chitin",20,10,1],["Leather Scraps",2,0,1]],"StaffRedTroll":[["Charred Bone",15,5,1],["Troll Trophy",1,1,1],["Flametal",3,3,1],["Bloodstone",1,1,1]],"AtgeirGold_FrostFire":[["Nord Atgeir",1,0,0],["Bloodgold",20,10,1],["Frostfire Essence",1,1,0]],"ArmorLoxLegs":[["Lox Pelt",5,3,1],["Bone Fragments",8,4,1],["Root",2,1,1]],"SwordMistwalker":[["Finewood",3,0,1],["Iron",15,10,1],["Refined Eitr",10,5,1],["Wisp",3,1,1]],"AxeBronze":[["Wood",4,0,1],["Bronze",8,4,1],["Leather Scraps",2,1,1]],"CapeLinen":[["Linen Thread",20,4,1],["Silver",1,0,1]],"BowGold_FrostFire":[["Nord Bow",1,0,0],["Bloodgold",20,10,1],["Frostfire Essence",1,1,0]],"AtgeirGold_BloodLightning":[["Nord Atgeir",1,0,0],["Bloodgold",20,10,1],["Thunderblood Essence",1,1,0]],"HelmetFenring":[["Fenris Hair",20,5,1],["Wolf Pelt",2,4,1],["Cultist Trophy",1,0,1]],"MaceEldnerNature":[["Flametal Mace",1,0,0],["Flametal",8,8,1],["Jade",1,1,0]],"SpearCarapace":[["Yggdrasil Wood",10,5,1],["Carapace",4,4,1],["Mandible",2,1,1]],"Battleaxe":[["Ancient Bark",30,5,1],["Iron",35,15,1],["Leather Scraps",4,0,1]],"StaffShield":[["Yggdrasil Wood",20,10,1],["Blood Clot",4,2,1],["Refined Eitr",16,8,1]],"BattleaxeGold_FrostFire":[["Nord Greataxe",1,0,0],["Bloodgold",20,10,1],["Frostfire Essence",1,1,0]],"MaceEldner":[["Charred Bone",10,5,1],["Flametal",15,8,1],["Sulfur",5,3,1],["Asksvin Hide",3,2,1]],"SledgeIron":[["Ancient Bark",10,2,1],["Iron",30,15,1],["Ymir Flesh",4,2,1],["Draugr Elite Trophy",1,0,1]],"StaffOrbofAhri":[["Bloodgold",10,5,1],["Nornathread",4,2,1],["Frostfire Essence",1,1,1]],"PickaxeBronze":[["Corewood",3,1,1],["Bronze",10,5,1]],"ArmorFenringLegs":[["Fenris Hair",20,5,1],["Wolf Pelt",5,3,1],["Leather Scraps",10,4,1]],"BowAshlandsBlood":[["Ash Fang",1,0,0],["Flametal",5,5,1],["Bloodstone",1,1,0]],"ArmorWolfChest":[["Silver",20,5,1],["Wolf Pelt",5,2,1],["Chain",1,0,1]],"BowGold":[["Bloodgold",20,10,1],["Mould: Nord Bow",1,0,1],["Timberwood",10,5,1]],"MaceGold":[["Bloodgold",20,10,1],["Mould: Nord Mace",1,0,1],["Timberwood",10,5,1]],"SwordNiedhoggBlood":[["Nidhögg",1,0,0],["Flametal",6,6,1],["Bloodstone",1,1,0]],"BowAshlands":[["Ashwood",10,5,1],["Charred Bone",16,10,1],["Flametal",5,5,1],["Bonemaw Tooth",5,5,1]],"ShieldBoneTower":[["Wood",10,5,1],["Bone Fragments",10,5,1],["Skeleton Trophy",3,0,1]],"SwordNiedhogg":[["Charred Bone",3,0,1],["Flametal",12,10,1],["Asksvin Hide",2,2,1]],"SledgeStagbreaker":[["Corewood",20,5,1],["Deer Trophy",5,2,1],["Leather Scraps",2,1,1],["Bone Fragments",0,10,1]],"HelmetFlametal":[["Flametal",16,8,1],["Asksvin Hide",3,1,1],["Charred Bone",2,0,1],["Refined Eitr",4,2,1]],"SwordIron":[["Wood",2,1,1],["Iron",20,10,1],["Leather Scraps",3,2,1]],"StaffFireball":[["Yggdrasil Wood",20,10,1],["Surtling Core",4,2,1],["Refined Eitr",16,8,1]],"CrossbowGold":[["Bloodgold",20,10,1],["Mould: Nord Crossbow",1,0,1],["Timberwood",10,5,1]],"ArmorMageLegs_Ashlands":[["Linen Thread",20,10,1],["Refined Eitr",20,5,1],["Asksvin Hide",10,0,1]],"AxeGold_FrostFire":[["Nord Axe",1,0,0],["Bloodgold",20,10,1],["Frostfire Essence",1,1,0]],"ArmorPaddedGreaves":[["Iron",10,3,1],["Linen Thread",20,10,1]],"CapeAsh":[["Asksvin Hide",6,2,1],["Morgen Sinew",2,0,1],["Flametal",5,0,1]],"ArmorFlametalLegs":[["Flametal",20,10,1],["Asksvin Hide",3,1,1],["Charred Bone",5,0,1]],"MaceSilver":[["Ancient Bark",10,0,1],["Silver",30,15,1],["Ymir Flesh",5,0,1],["Freeze Gland",5,0,1]],"AxeJotunBane":[["Yggdrasil Wood",5,0,1],["Iron",15,10,1],["Bilebag",3,1,1],["Refined Eitr",10,1,1]],"SwordBlackmetal":[["Finewood",2,0,1],["Black Metal",20,10,1],["Linen Thread",5,5,1]],"FistBjornUndeadClaw":[["Bear Hide",2,1,1],["Vile Ribcage",2,1,1],["Black Metal",2,1,1],["Linen Thread",4,2,1]],"HelmetAshlandsMediumHood":[["Linen Thread",15,10,1],["Lox Pelt",4,2,1],["Asksvin Hide",10,5,1]],"SwordDyrnwyn":[["Dyrnwyn Hilt Fragment",1,0,1],["Dyrnwyn Blade Fragment",1,0,1],["Dyrnwyn Tip Fragment",1,0,1],["Flametal",20,10,1],["Bloodstone",1,1,1]],"SwordNiedhoggNature":[["Nidhögg",1,0,0],["Flametal",6,6,1],["Jade",1,1,0]]};
   // Named by material, with the biome for anyone who thinks in biomes
-  var AGENAMES=[["Wood & flint","Meadows"],["Bronze","Black Forest"],["Iron","Swamp"],["Silver","Mountain"],["Black metal","Plains"],["Carapace","Mistlands"],["Flametal","Ashlands"],["Deep North","Deep North"]];
+  // [button label, biome, idol tier]. The tier is the first word of the idol's English name in the game
+  var AGENAMES=[["Wood & flint","Meadows","Wooden"],["Bronze","Black Forest","Bronze"],["Iron","Swamp","Iron"],["Silver","Mountain","Silver"],["Black metal","Plains","Black Metal"],["Carapace","Mistlands","Black Marble"],["Flametal","Ashlands","Flametal"],["Deep North","Deep North","Bloodgold"]];
+  // Weapons take a Battle Idol and armour and shields a Protection Idol, except these weapons, whose recipes ask for Protection
+  var PROTECTS={FistGold:1};
+  function idolKind(x){return x[2]==="W"&&!PROTECTS[x[1]]?"Battle":"Protection";}
+  function idolName(age,x){return AGENAMES[age][2]+" "+idolKind(x)+" Idol";}
+  // Which idols an age takes, said once under the heading rather than on every row
+  function idolLine(age){
+    var t=AGENAMES[age][2],odd=AGES[age].filter(function(x){return x[2]==="W"&&PROTECTS[x[1]];}).map(function(x){return x[0];});
+    return "Weapons here take the "+t+" Battle Idol"+(odd.length?", except "+together(odd):"")+". Armour"+(odd.length?", shields and "+together(odd):" and shields")+" take the "+t+" Protection Idol.";
+  }
   var KINDS={W:"Weapon",S:"Shield",A:"Armour"};
   // Elder Futhark, letter by letter. Decoration only, so close enough is fine
   var RUNES={a:"ᚨ",b:"ᛒ",c:"ᚲ",d:"ᛞ",e:"ᛖ",f:"ᚠ",g:"ᚷ",h:"ᚺ",i:"ᛁ",j:"ᛃ",k:"ᚲ",l:"ᛚ",m:"ᛗ",n:"ᚾ",o:"ᛟ",p:"ᛈ",q:"ᚲ",r:"ᚱ",s:"ᛊ",t:"ᛏ",u:"ᚢ",v:"ᚹ",w:"ᚹ",x:"ᚲᛊ",y:"ᛃ",z:"ᛉ","å":"ᚨ","ä":"ᚨ","æ":"ᚨ","ö":"ᛟ","ø":"ᛟ","þ":"ᚦ","ð":"ᚦ"," ":"᛫"};
@@ -319,11 +332,12 @@ details.how p{margin:12px 0;font-size:16px;max-width:60ch}
       xs.forEach(function(x){
         // Internal names carry the weapon type, so "spear" also finds Splitnir (SpearSplitner)
         if(q&&fold(x[0]).indexOf(q)<0&&x[1].toLowerCase().indexOf(q)<0)return;
-        var p=plan(names,x[1]);rows.push({x:x,age:a,p:p,c:cost(p,aim)});
+        var p=plan(names,x[1]);p.idol=idolName(a,x);rows.push({x:x,age:a,p:p,c:cost(p,aim)});
       });
     });
     $("status").textContent=rows.length===1?"1 item":rows.length+" items";
     var showAge=age==="all";
+    $("idols").textContent=showAge?"":idolLine(+age);$("idols").hidden=showAge||!rows.length;
     if(q){
       $("heading").textContent="\u201c"+$("q").value.trim()+"\u201d for "+together(names)+(age==="all"?"":" in "+AGENAMES[+age][0]);
       $("intro").textContent=rows.length?"Cheapest way to level "+aim+" first. The number is how far each item goes from level "+START+" before anything breaks.":"";
@@ -406,7 +420,7 @@ details.how p{margin:12px 0;font-size:16px;max-width:60ch}
   function showRoute(p,target,out){
     out.innerHTML="";
     var c=p.reached[target],group=p.names.length>1;
-    out.appendChild(el("p",null,"Level "+target+" uses "+c.idols+" idol"+(c.idols===1?"":"s")+(c.lost?" and breaks "+c.lost+" item"+(c.lost===1?"":"s")+" on the way.":", with no breaks.")));
+    out.appendChild(el("p",null,"Level "+target+" uses "+c.idols+" "+p.idol+(c.idols===1?"":"s")+(c.lost?" and breaks "+c.lost+" item"+(c.lost===1?"":"s")+" on the way.":", with no breaks.")));
     var route=el("div","route");
     for(var i=0;i<=c.run;i++){
       var steps=p.runs[i].filter(function(s){return !(i===c.run&&s.from>=target);});
